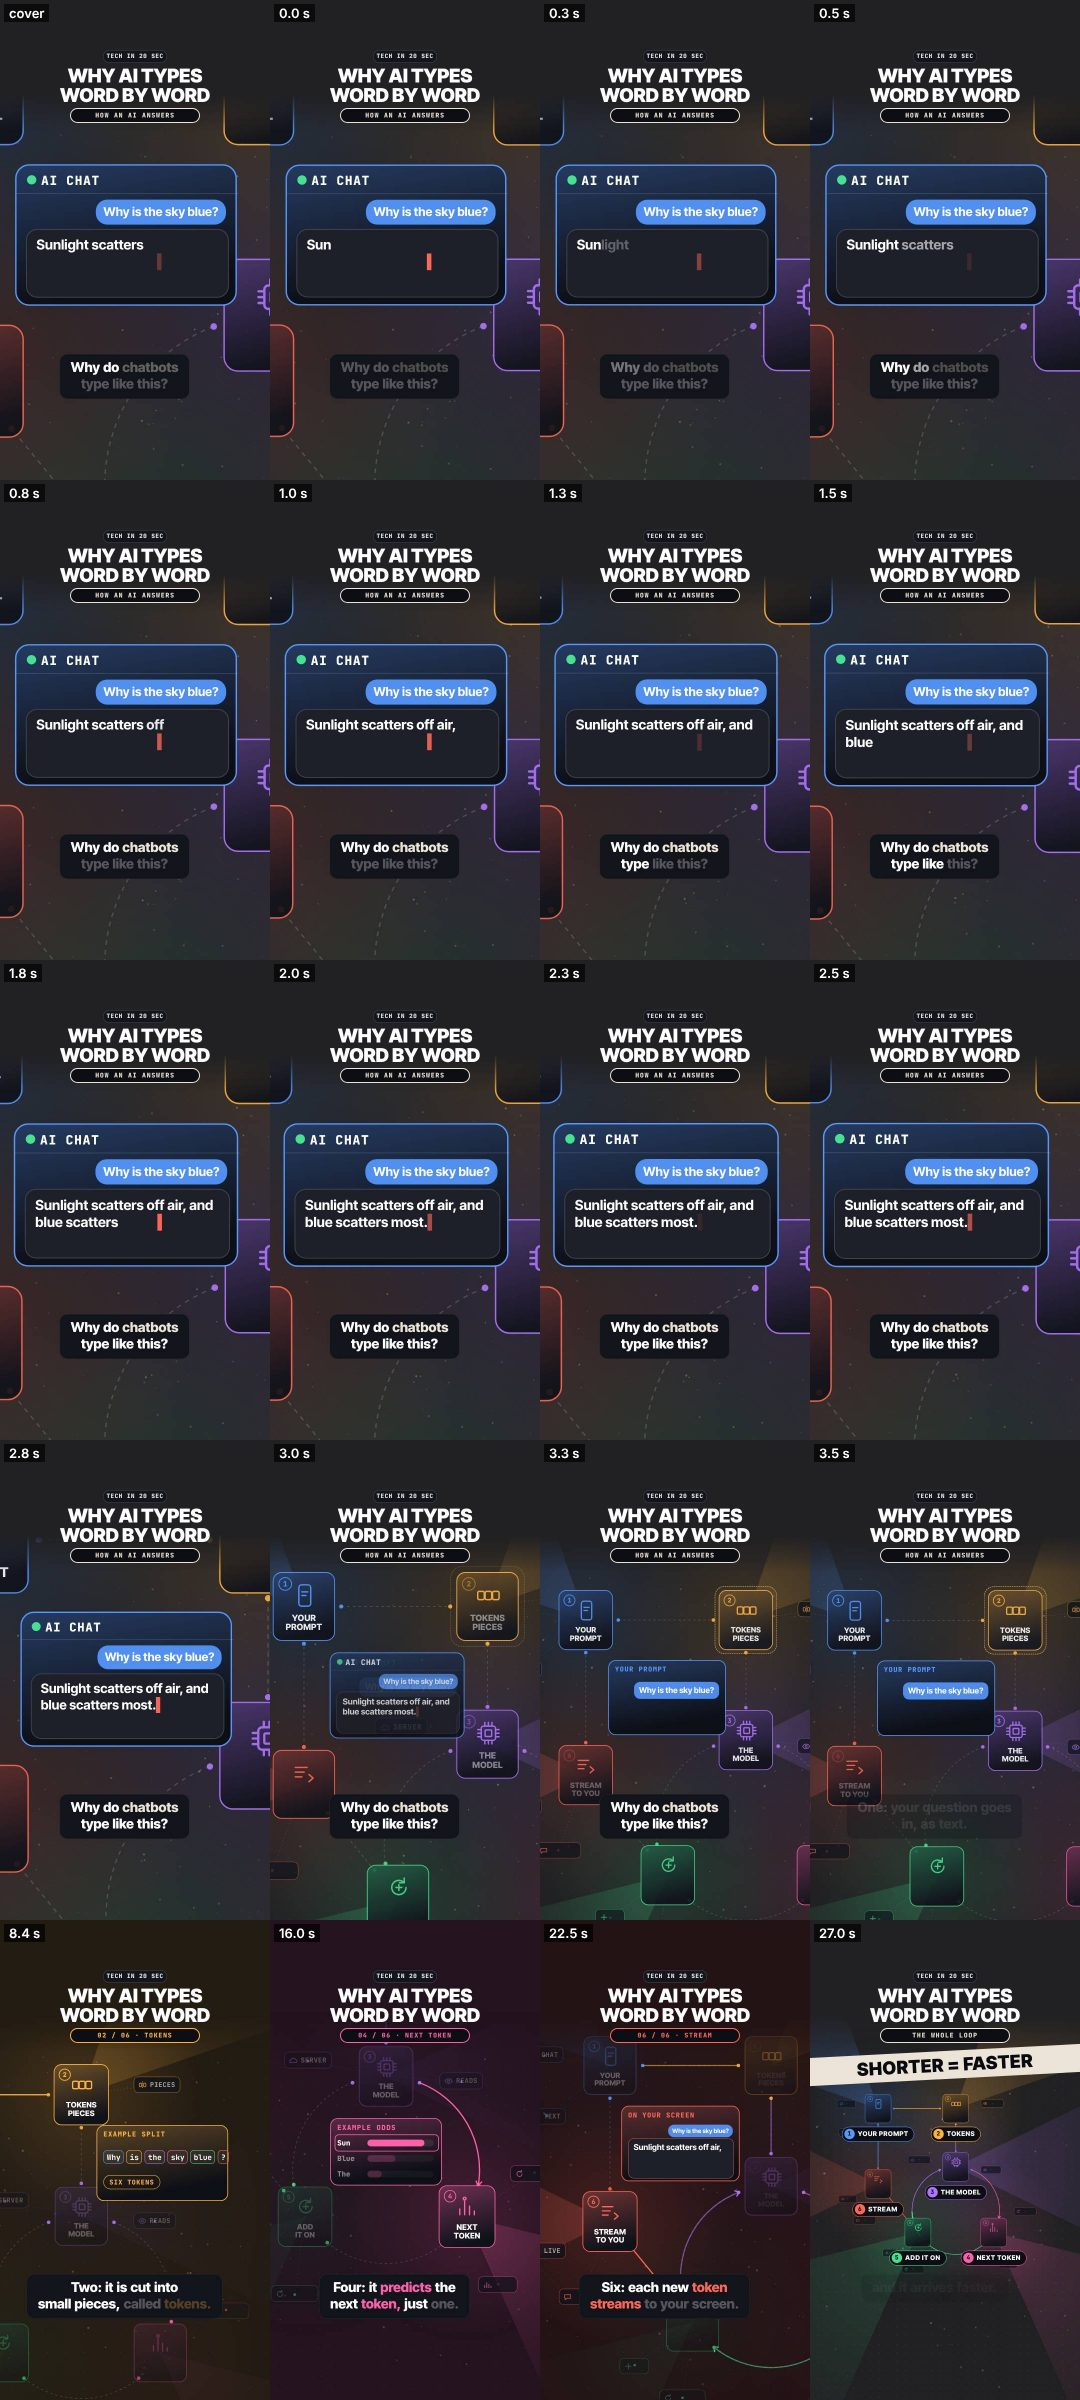
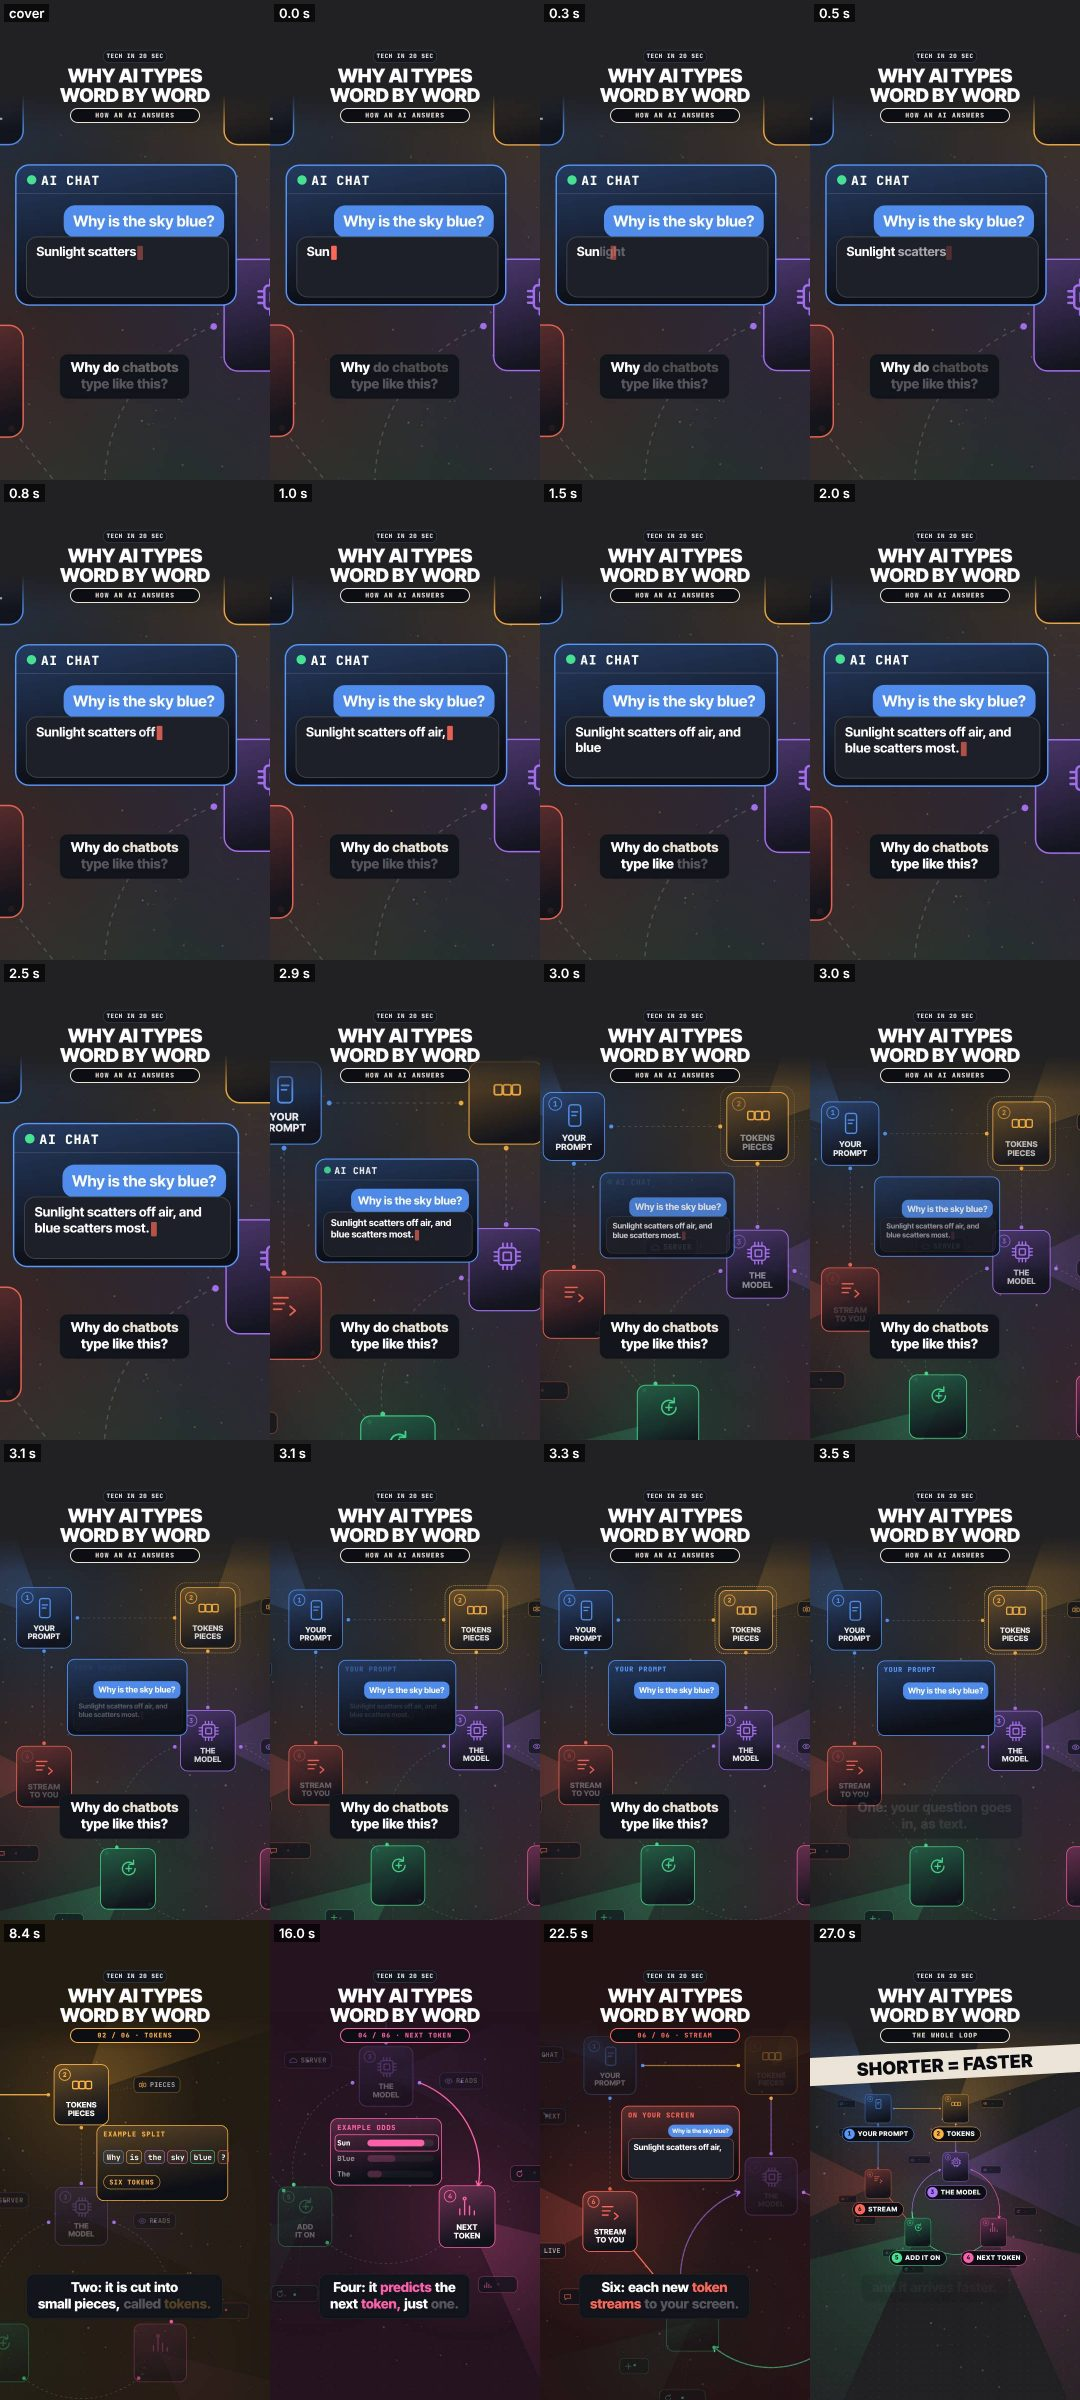
tech ai-words: opening fixes from the stills check (cursor follows the words, no double image at the hand-over, first caption word lit)
Claude-Session: https://claude.ai/code/session_01AYvWRkgpFJ22JNJTp9iMjZ

diff --git a/scripts/explainer/tech-ai-words.html b/scripts/explainer/tech-ai-words.html
@@ -194,7 +194,7 @@ html,body{width:540px;height:960px;overflow:hidden;background:#08090d;font-famil
   function tokTimes(){ var r = [], k = 0, t = T5, s = 0; while (k < ANS.length && t < DUR){ var h = 1 / 240; s += omega(t + h / 2) * h; t += h; if (s >= k + 2 / 3){ r.push(t); k++; } } return r; }
   var TT = tokTimes();
   // ---- panels (one working interface per step); ghost outline shows before the camera goes there
-  var PAN = [null], GH = [null], X = [null];
+  var PAN = [null], GH = [null], X = [null], P1H;
   var PPOS = [null, [745, 690, 470, 300], [1380, 650, 520, 300], [1060, 1150, 430, 260], [1060, 1150, 430, 260], [1060, 1150, 430, 260], [700, 690, 470, 300]];
   for (var j = 1; j <= 6; j++){ var pp = PPOS[j], c2 = COL[j];
     GH.push(E(pans, 'ghost', 'left:' + (pp[0] - pp[2] / 2) + 'px;top:' + (pp[1] - pp[3] / 2) + 'px;width:' + pp[2] + 'px;height:' + pp[3] + 'px;--c:' + rgb(c2, .7) + ';opacity:0'));
@@ -204,7 +204,7 @@ html,body{width:540px;height:960px;overflow:hidden;background:#08090d;font-famil
   var CHC = [[86,152,255],[255,178,64],[176,118,255],[255,96,170],[70,226,146],[255,104,88]];
   // 1: the chat, the question typed, then sent as text
   (function(){ var p = PAN[1], cs = rgb(COL[1]);
-    E(p, 'ph', '', 'YOUR PROMPT');
+    P1H = E(p, 'ph', '', 'YOUR PROMPT');
     var bub = E(p, 'bub', 'right:24px;top:84px;background:' + rgb(COL[1], .9) + ';white-space:nowrap', '');
     var snd = E(p, '', 'right:24px;top:196px;height:56px;border-radius:28px;border:2.5px solid ' + cs + ';padding:0 22px;font:800 26px/51px var(--m);letter-spacing:.08em;color:' + cs + ';white-space:nowrap', 'SENT AS TEXT &rsaquo;');
     var Q = 'Why is the sky blue?', QS = Q.split('').map(function(ch){ var s = document.createElement('span'); s.textContent = ch; s.style.opacity = 0; bub.appendChild(s); return s; });
@@ -254,13 +254,14 @@ html,body{width:540px;height:960px;overflow:hidden;background:#08090d;font-famil
   // the opening (owner, 27 Nov: "show a chatbot window"): an invented, unbranded chat window, filling the frame at 0-2.6 s, the question asked and the
   // reply streaming in word by word; it sits exactly where panel 1 sits, so the pull-back turns it into the map's first card (a match cut)
   var cw = E(pans, 'pan', 'left:' + (PPOS[1][0] - 235) + 'px;top:' + (PPOS[1][1] - 150) + 'px;width:470px;height:300px;--c:' + rgb(COL[1]) + ';--ct:' + rgb(cmix(COL[1], [16, 18, 26], .7)), '');
-  E(cw, '', 'left:22px;top:20px;width:20px;height:20px;border-radius:50%;background:' + rgb(COL[5]), '');
-  E(cw, 'ph', 'left:52px;top:18px;color:#fff;letter-spacing:.06em', 'AI CHAT');
-  E(cw, '', 'left:0;top:58px;width:470px;height:2px;background:rgba(255,255,255,.12)', '');
-  var cq = E(cw, 'bub', 'right:20px;top:72px;background:' + rgb(COL[1], .92) + ';white-space:nowrap;font-size:26px;padding:10px 16px', 'Why is the sky blue?');
-  var ca = E(cw, 'bub', 'left:20px;top:134px;width:430px;height:146px;background:#1d2029;border:2px solid rgba(255,255,255,.16);font-size:29px;line-height:1.24', '');
+  // its header goes out before card 1's header comes in (2.85-3.05 / 3.05-3.25 s), and its question bubble has card 1's exact size and place (no double image)
+  var CWH = [E(cw, '', 'left:22px;top:20px;width:20px;height:20px;border-radius:50%;background:' + rgb(COL[5]), ''), E(cw, 'ph', 'left:52px;top:18px;color:#fff;letter-spacing:.06em', 'AI CHAT'), E(cw, '', 'left:0;top:58px;width:470px;height:2px;background:rgba(255,255,255,.12)', '')];
+  var cq = E(cw, 'bub', 'right:24px;top:84px;background:' + rgb(COL[1], .9) + ';white-space:nowrap', 'Why is the sky blue?');
+  var ca = E(cw, 'bub', 'left:20px;top:150px;width:430px;height:130px;background:#1d2029;border:2px solid rgba(255,255,255,.16);font-size:27px;line-height:1.24', '');
   var HSP = ANS.map(function(w){ var s = document.createElement('span'); s.textContent = w; s.style.opacity = 0; ca.appendChild(s); return s; });
-  var hcur = document.createElement('span'); hcur.textContent = '\u258d'; hcur.style.color = rgb(COL[6]); ca.appendChild(hcur);
+  // the cursor sits right after the last word shown and hops (0.07 s, eased) to the next word's end as it lands
+  var hcur = E(ca, '', 'left:0;top:0;width:12px;height:30px;border-radius:2px;background:' + rgb(COL[6]), '');
+  function wordEnd(i){ var e = HSP[i]; return [e.offsetLeft + e.offsetWidth + 3, e.offsetTop + 4]; }
   // ---- background (canvas, screen space): torch-like light wedges from the lit node, a faint grid with parallax, slow dust. No blur stacks.
   var bg = $('bgc').getContext('2d');
   // how far an element sits inside the safe zone (x 26-470, y 128-690): 1 inside, fading to 0 within 24 px beyond (no text under the side buttons or the caption overlay)
@@ -310,7 +311,7 @@ html,body{width:540px;height:960px;overflow:hidden;background:#08090d;font-famil
       if (capEls.length > 1 && capEls[capEls.length - 1].offsetTop > capEls[0].offsetTop + 4) bx.insertBefore(document.createElement('br'), capEls[Math.ceil(capEls.length / 2)]); }
     var first = gi === 0 ? 1 : P(t, gr[0].s - .05, gr[0].s + .1), last = gi === GR.length - 1 ? 1 : 1 - fadeOut;
     capEl.style.opacity = (first * last).toFixed(3);
-    gr.forEach(function(w, n){ var k = P(t, w.s - .03, w.s + .14), s = capEls[n], key = KEY[w.w.toLowerCase().replace(/[^a-z]/g, '')];
+    gr.forEach(function(w, n){ var k = gi === 0 && n === 0 ? 1 : P(t, w.s - .03, w.s + .14), s = capEls[n], key = KEY[w.w.toLowerCase().replace(/[^a-z]/g, '')];
       s.style.opacity = (.28 + .72 * k).toFixed(3); s.style.color = key ? rgb(col) : '#fff'; });
   }
   // ---- sound: a swish on each move, a soft snap on arrival, blips as interface parts land, a tick per streamed token, a lift at the payoff
@@ -364,7 +365,13 @@ html,body{width:540px;height:960px;overflow:hidden;background:#08090d;font-famil
       if (kp > 0) X[pi](t - pin, t); }
     // the opening chat window: words stream in (each fades over 0.1 s), then it hands over to panel 1 during the pull-back (2.85-3.25 s)
     var cwo = 1 - io(P(t, 2.85, 3.25)); cw.style.opacity = cwo.toFixed(3); cw.style.visibility = cwo > 0 ? 'visible' : 'hidden';
-    if (cwo > 0){ HSP.forEach(function(s, n){ s.style.opacity = (n === 0 ? 1 : cl(P(t, n * .22, .1 + n * .22))).toFixed(3); }); hcur.style.opacity = (.55 + .45 * Math.cos(t * 7)).toFixed(3); cq.style.opacity = '1'; }
+    if (cwo > 0){ HSP.forEach(function(s, n){ s.style.opacity = (n === 0 ? 1 : cl(P(t, n * .22, .1 + n * .22))).toFixed(3); });
+      var wn = Math.min(HSP.length - 1, Math.floor(t / .22)), hk = io(P(t, wn * .22, wn * .22 + .07)), e1 = wordEnd(wn), e0 = wn > 0 ? wordEnd(wn - 1) : e1;
+      var nl = Math.abs(e1[1] - e0[1]) > 4, hk2 = io(P(t, wn * .22, wn * .22 + .12)), blink = .6 + .4 * Math.cos(t * 7);   // to a new line: fade out at the old end, in at the new one (no sweep across the box)
+      if (nl){ var at1 = hk2 >= .5; hcur.style.transform = 'translate(' + (at1 ? e1 : e0)[0].toFixed(1) + 'px,' + (at1 ? e1 : e0)[1].toFixed(1) + 'px)'; hcur.style.opacity = (blink * Math.abs(2 * hk2 - 1)).toFixed(3); }
+      else { hcur.style.transform = 'translate(' + mix(e0[0], e1[0], hk).toFixed(1) + 'px,' + mix(e0[1], e1[1], hk).toFixed(1) + 'px)'; hcur.style.opacity = blink.toFixed(3); }
+      CWH.forEach(function(e){ e.style.opacity = (1 - io(P(t, 2.85, 3.05))).toFixed(3); }); cq.style.opacity = '1'; }
+    P1H.style.opacity = t < 4 ? io(P(t, 3.05, 3.25)).toFixed(3) : '1';
     // tags (screen space) on the wide shots, so every node's name reads at phone size on the whole map
     for (var i2 = 1; i2 <= 6; i2++){ var sp = toScreen(PT[i2], cm), tg = TAG[i2]; tg.style.opacity = (wide * (t < AT[1] ? 1 : 1)).toFixed(3); tg.style.visibility = wide > 0 ? 'visible' : 'hidden';
       var tw = tg.offsetWidth; tg.style.transform = 'translate(' + (sp[0] - tw / 2).toFixed(1) + 'px,' + (sp[1] + 116 * cm[2] + 8).toFixed(1) + 'px)'; }

diff --git a/review/tech/showreel-tech-ai-words.direction.md b/review/tech/showreel-tech-ai-words.direction.md
@@ -71,3 +71,21 @@ STILLS CHECK: APPROVED (session_01AYvWRkqEmK6xtML2T4r3CS, 2026-11-27): the card 
 Owner: "For the first moment I cannot tell what we're talking about. It would be better to show a chatbot window where we see the first stage of what the reel covers."
 New hook, 0-2.6 s: an invented, unbranded chat window (title "AI CHAT", green dot, our own UI) fills the frame at scale 0.94: the user's question "Why is the sky blue?" and the reply streaming in word by word (first word on frame 0, a new word every 0.22 s, cursor blinking; 29 world px = 55 px at 1080); the hook caption "Why do chatbots / type like this?" on screen from frame 0, lighting word by word with the voice. 2.6-3.2 s: one pull-back (0.6 s, quick ease) to the step 1 framing; the chat window sits exactly where card 1 (YOUR PROMPT) sits and cross-fades into it at 2.85-3.25 s (a match cut, no hard cut); the dashed ring of card 2 shows from 2.9 s. From 3.5 s everything is as render 3. Whole-frame map 0-2.6 s: top band title + pill; middle the chat window (y about 330-610); edges: neighbouring tiles of the map dim at the sides; background wedges, grid, dust; caption y 708+; nothing in the Instagram zones but background.
 Checks: SAFE ZONE ok, OVERLAP none, TEXT FIT ok, SUBTITLES ok, FLOW continuity 77%; FLICKER on a 60 fps full-resolution capture PASS. Stills sheet: review/tech/showreel-tech-ai-words.stills.jpg (0-3.5 s every 0.25 s, then 8.4, 16, 22.5, 27 s). Awaiting the outside stills check for the opening.
+
+## Stills check, render 4 opening (session_01AYvWRiW1ZqkVDpGFBW2cfc, 27 Nov 2026)
+Outside check on the committed sheet plus one extra sheet (0, 0.5, 1.8, then 2.6-3.3 s every 0.1 s). The idea is right and answers the owner's note; two things look broken and are cheap to fix before the last render.
+- MET, 0.0 s: a stranger reads "chat window, a question, the reply starting" in one second: AI CHAT header, the blue question bubble, "Sun" in the reply box, under the title. Subject fill 42%.
+- MET, unbranded: our own dark panel, green dot, the words "AI CHAT", a plain blue bubble; no real product's layout, logo, colours or name.
+- MET, phone size: question 26 world px and reply 29 world px (about 50 and 55 px at 1080), caption 52 px+; SAFE ZONE, OVERLAP, TEXT FIT, SUBTITLES all ok; nothing in the Instagram zones.
+- MET, hook caption: "Why do chatbots / type like this?" is on screen at 0.0 s. Weak point: at 0.0 s all its words are in the dim unspoken state, so with the sound off the first frame's line is faint (lit from about 0.3 s).
+- NOT MET, 0.0-1.9 s, the cursor: the red cursor sits parked at the END of the finished reply (second line, after where "most." will be) from frame 0, while the words appear far to its left and one line above. It reads as a stray red bar, not a typing cursor, on the very frame the owner complained about. Cause: `hcur` is appended after all the hidden word spans, so it takes the layout position after the last word.
+- PARTLY MET, 2.6-3.3 s, the pull-back: the move itself is smooth (2.6-3.0 s), the window lands on panel 1, nothing pops, card 2 (TOKENS) and its dashed ring show from 2.9-3.1 s. But at 3.0-3.15 s the cross-fade shows a double image: "AI CHAT" and "YOUR PROMPT" overlap into garbled letters at the header, and the question bubble shows twice at two sizes and places. Cause: the chat window's bubble is right:20px; top:72px; 26 px; padding 10px 16px, panel 1's is right:24px; top:84px; 32 px; padding 14px 20px; the headers sit at left:52px and left:24px on the same line.
+- MET, 3.5 s onward: 3.5, 8.4, 16, 22.5 and 27 s match the step framing, panels, captions and banner described for render 3; the commit touches only the opening code (the chat window, panel 1's fade-in at 2.85-3.25 s) and FLOW reports 0 cuts, 0 strobes, no static stretch.
+Exact fixes (scripts/explainer/tech-ai-words.html, the opening only):
+1. Cursor follows the last shown word: make `hcur` position:absolute inside `ca`; once at build, store each word span's offsetLeft + offsetWidth and offsetTop; each frame take n = min(last word, floor(t / 0.22)) and set the cursor's left/top to that word's end (ease the hop over 0.06-0.08 s so no value jumps in one frame). After the last word it rests after "most." as now.
+2. A true match on the bubble: give the chat window's question bubble panel 1's exact geometry (right:24px; top:84px; font 32px; padding 14px 20px; the same background alpha) and move the reply box down to clear it (top about 150px, height about 130px; the two reply lines still fit at 29 px), so the two bubbles are pixel-identical through the cross-fade.
+3. Headers never overlap: fade "AI CHAT" (and its green dot) and the reply box out over 2.85-3.05 s, and fade panel 1's "YOUR PROMPT" in over 3.05-3.25 s; the panel frame and the bubble keep the existing 2.85-3.25 s cross-fade.
+4. Small: at 0.0 s show the first caption word lit (or lift the unspoken-word dim to about 60%) so the hook line reads on frame 0 with the sound off.
+Then re-run the stills (0-3.5 s) and the 60 fps FLICKER capture before the render; no second outside check is needed if 0.0-1.9 s shows the cursor at the text's end and 3.0-3.15 s shows one header and one bubble.
+STILLS CHECK: REDO: (1) the cursor must sit right after the last shown word, not parked at the end of the reply from frame 0; (2) give the chat window's question bubble panel 1's exact size and place and stagger the headers (AI CHAT out by 3.05 s, YOUR PROMPT in from 3.05 s) so 3.0-3.15 s shows no double image; (3) first hook-caption word lit on frame 0.
+BUILDER REPLY to the render 4 opening REDO (27 Nov): (1) the cursor is a block placed at the end of the last word shown, hopping 0.07 s (eased) to the next word's end; across a line break it fades out and back in at the new line (a sweep scored FLICKER 5.2 at 1.58 s); (2) the chat window's question bubble now has card 1's exact size and place, its reply box sits at top 150 / height 130, and its header (dot, AI CHAT, divider) goes out 2.85-3.05 s before card 1's YOUR PROMPT comes in 3.05-3.25 s: no double image at 3.0-3.15 s; (3) the first caption word ("Why") is lit on frame 0. Checked: stills 0-3.5 s (0, 0.25, 0.5, 0.75, 1.0, 1.5, 2.0, 2.5, 2.9, 3.0, 3.05, 3.1, 3.15, 3.25, 3.5 s) clean; FLICKER on a full 60 fps capture PASS; preflight-all PASS. Per the stills check, no second outside check is needed when these moments are clean.

diff --git a/review/tech/showreel-tech-ai-words.md b/review/tech/showreel-tech-ai-words.md
@@ -82,4 +82,4 @@ PREMIUM: animation 7.5/10 (t 3.5-4.0 push-in with the step pill rolling; t 7.0-8
 UPGRADES (next 2.5D reel, not this one):
 - MED, 0-3.5 s: a small question pill above the frame-0 reply bubble so the hook reads as a chat in under 1 s.
 - LOW, 24.9-29.6 s: the payoff map is small (tiles about 60 px wide at 1080); plan wide shots at scale 0.27+.
-PREFLIGHT-ALL: PASS 031929f1 (showreel-tech-ai-words, 44 s)
+PREFLIGHT-ALL: PASS 5f29f7c6 (showreel-tech-ai-words, 42 s)
